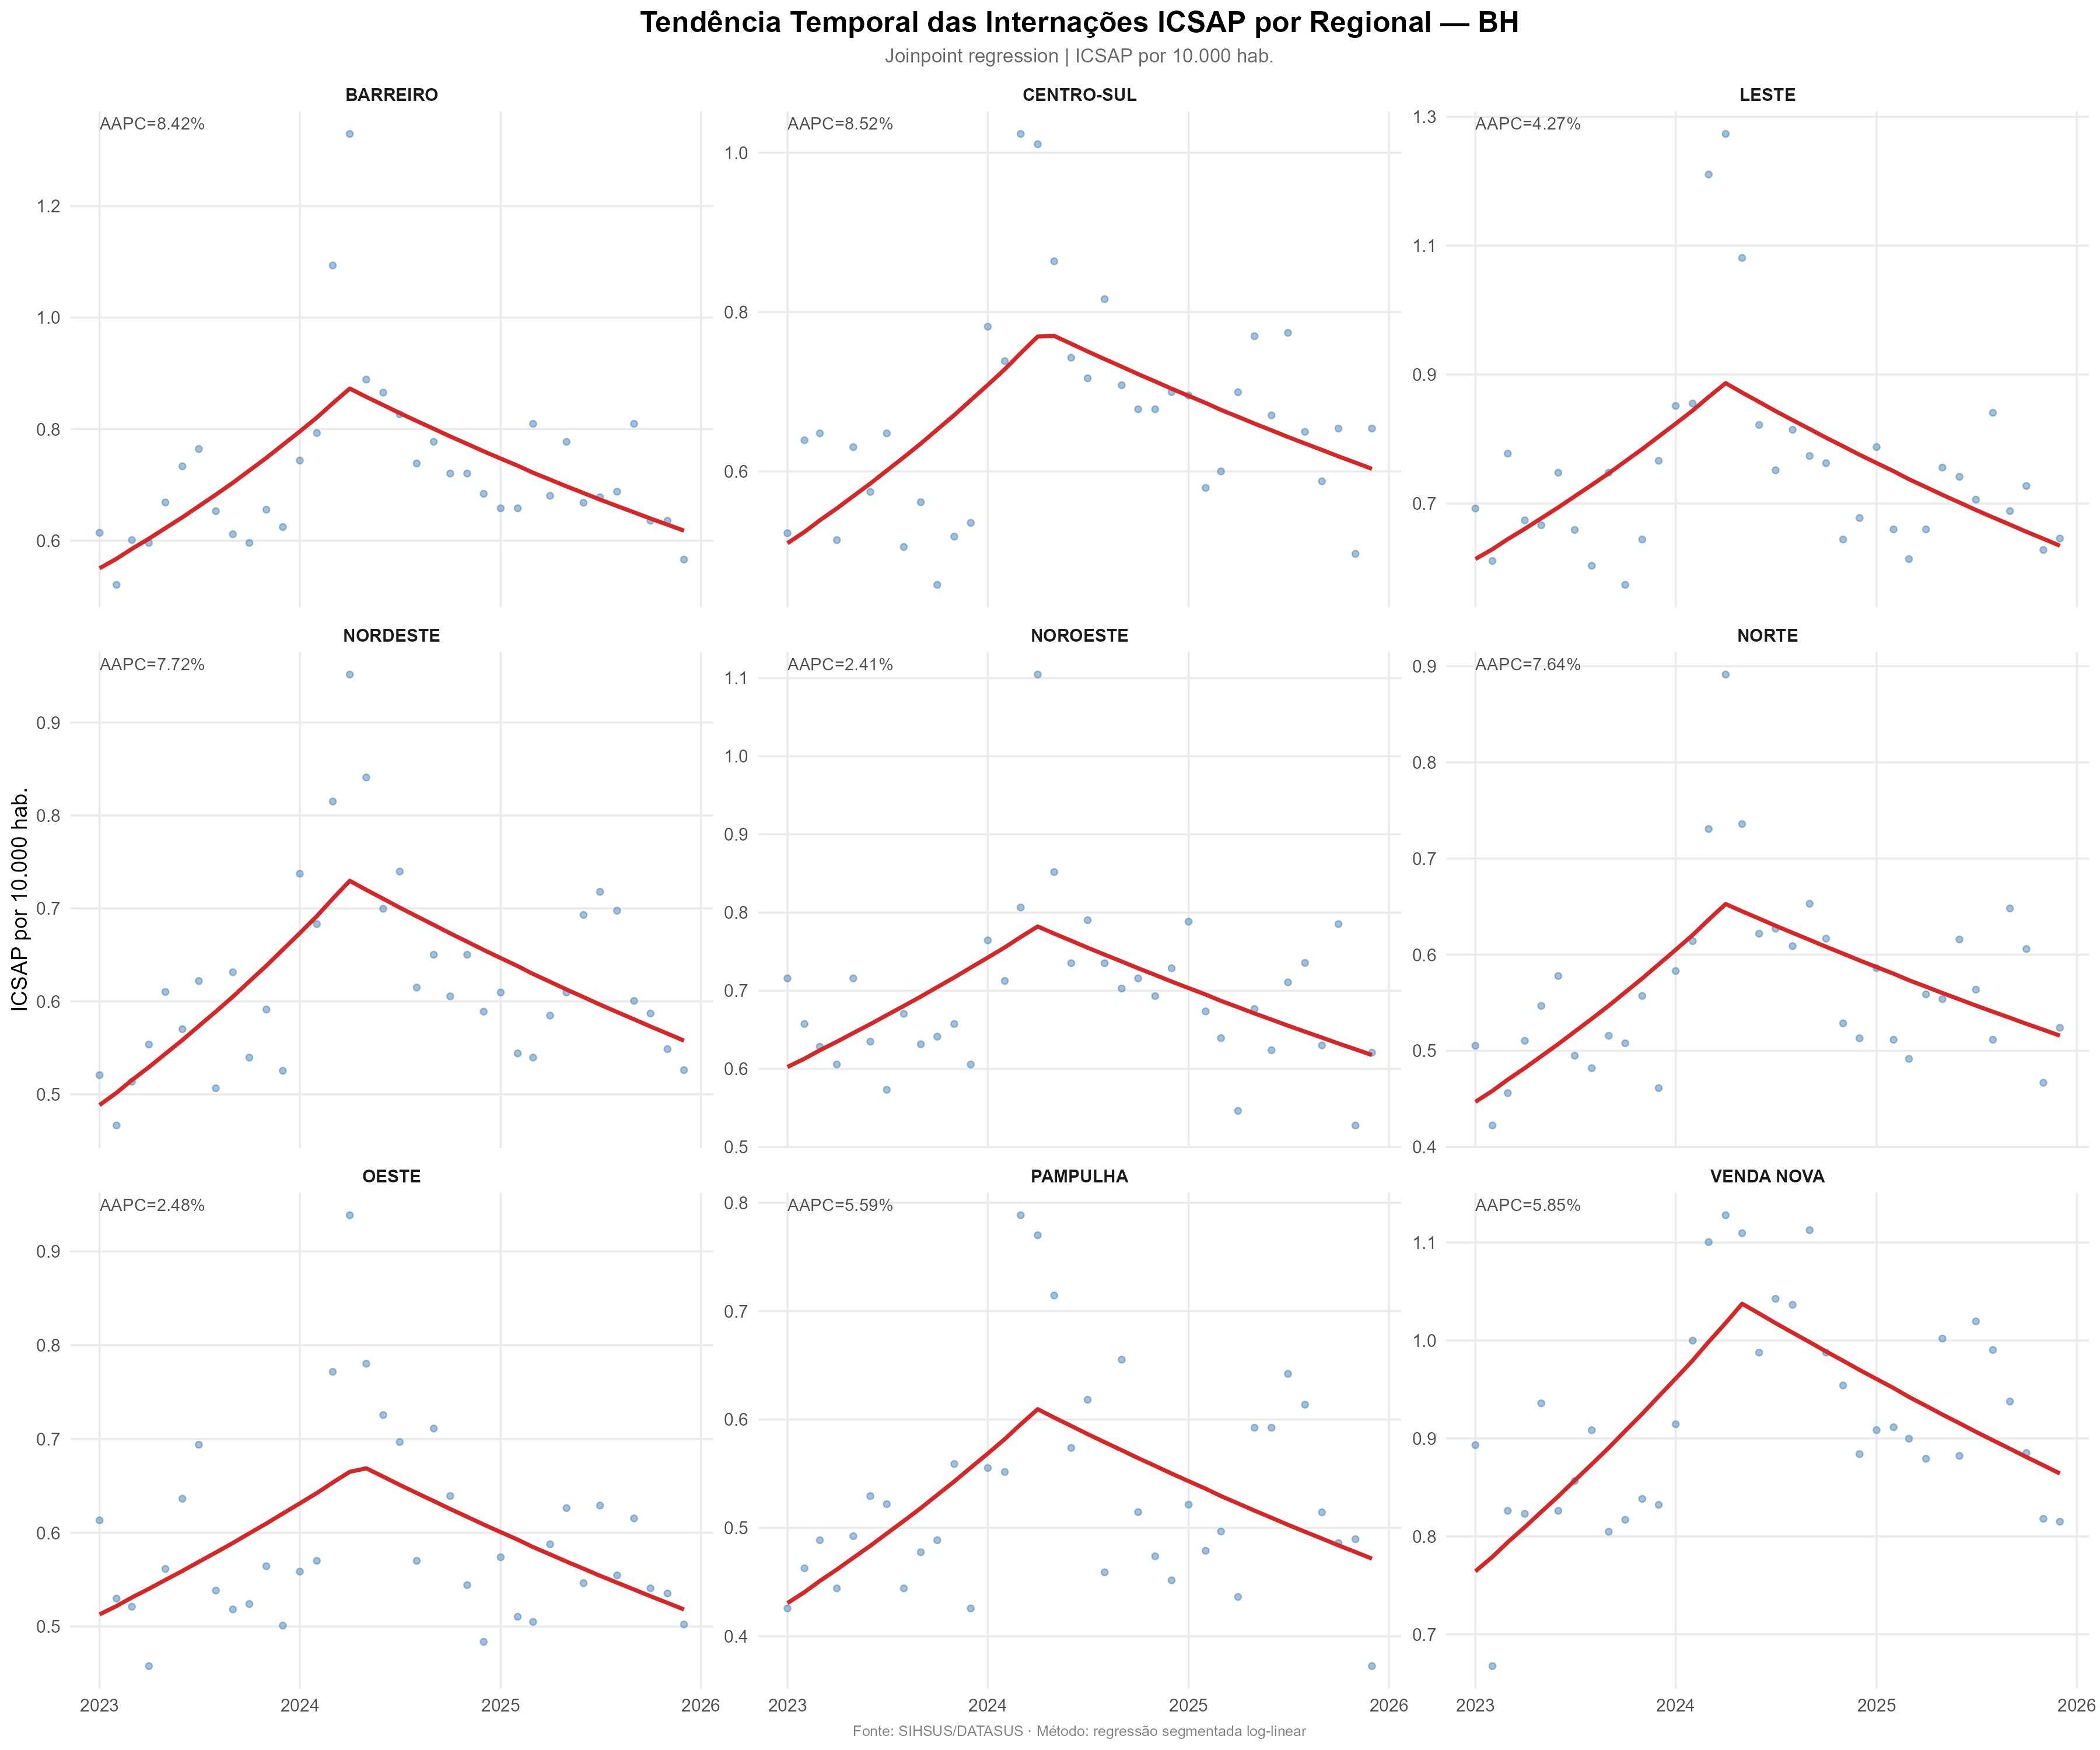
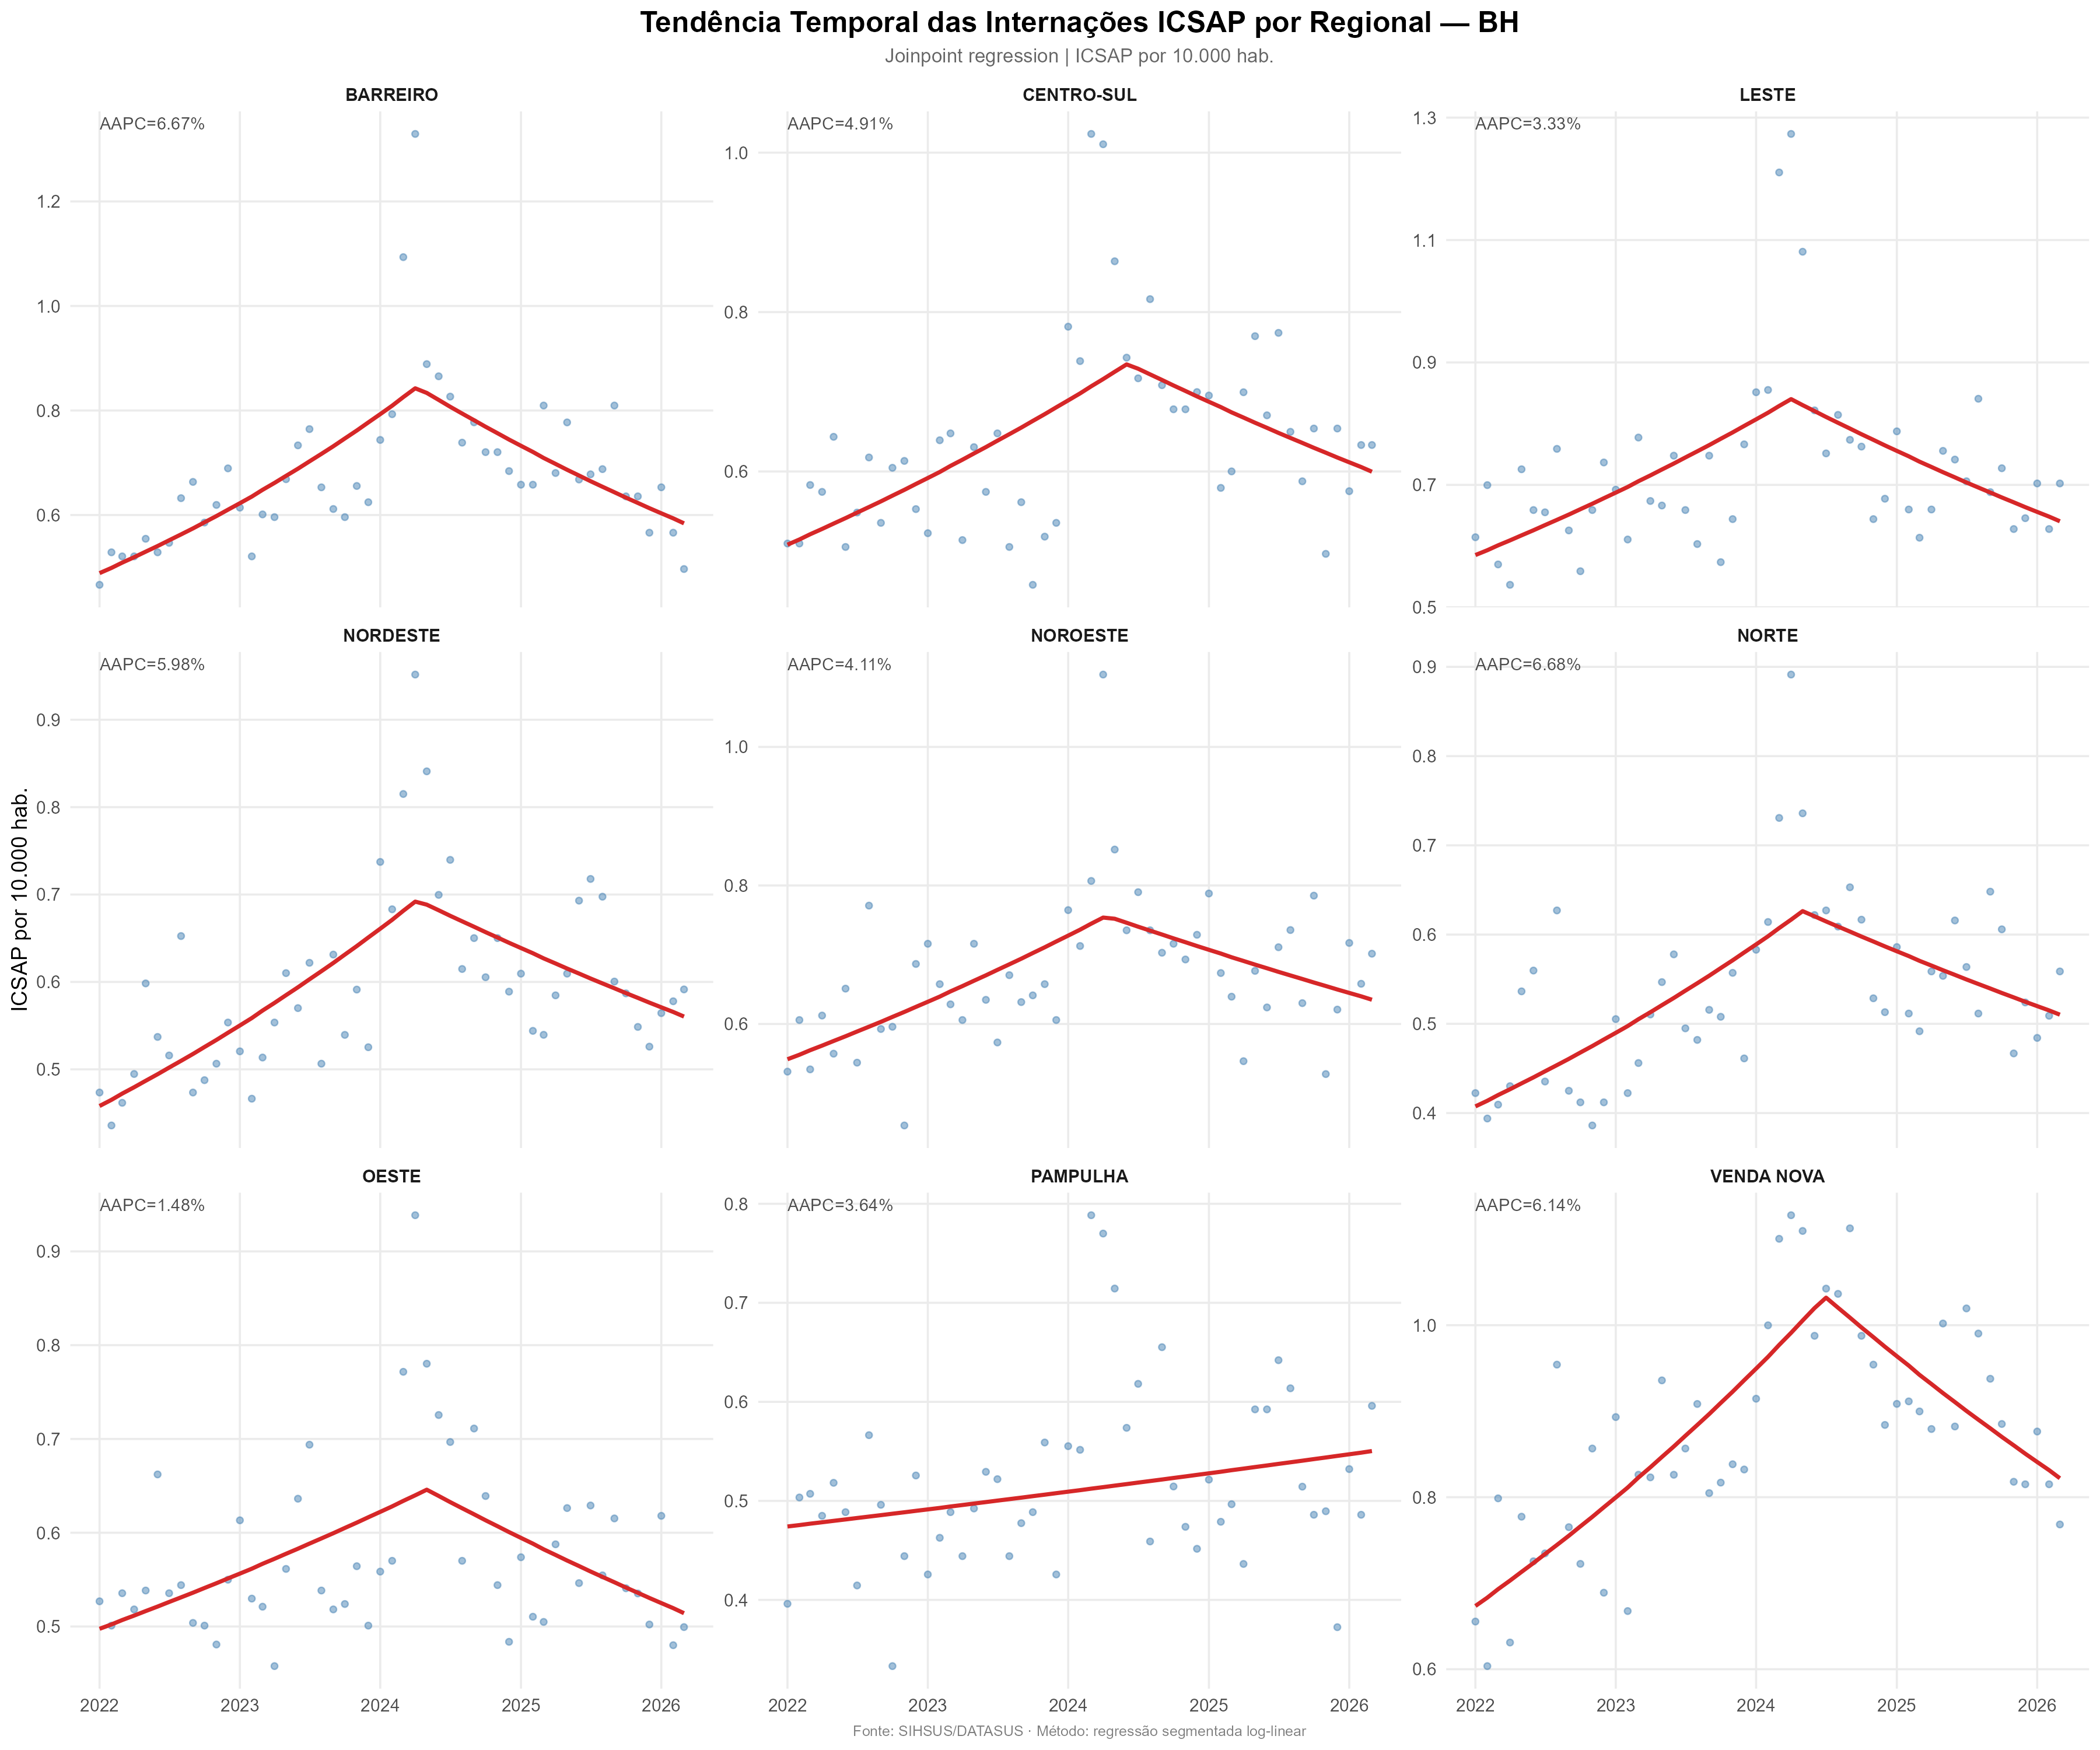
Re-executa joinpoint com serie completa jan/2022-mar/2026 (51 meses) — script 10
BH: 2 joinpoints detectados (serie mais longa revela 3 fases):
  Seg 1 jan/2022-abr/2023: APC = +1.2%/ano (crescimento moderado pos-pandemia)
  Seg 2 abr/2023-abr/2024: APC = +22.9%/ano (aceleracao pre-Portaria)
  Seg 3 abr/2024-mar/2026: APC = -11.2%/ano (queda pos-Portaria 3.493/2024)
  AAPC = +0.7%/ano (vs +1.1% na serie antiga de 39 meses)

Regionais (51 meses): 8/9 com 1 joinpoint bimodal (abr-jul/2024)
  Pampulha: 0 joinpoints, tendencia linear +3.6%/ano
  AAPC: +1.5% (Oeste) a +6.7% (Barreiro/Norte)

Fix: extensao da populacao regional para 2022/2026 via carry-back/forward
  (Censo 2022 e estimativa estatica — bias minimo no denominador)

diff --git a/CLAUDE.md b/CLAUDE.md
@@ -247,10 +247,17 @@ O filtro de CS é dependente do filtro de regional — ao selecionar uma regiona
   - **M4 GEE completo** (exchangeable, 117 CS): n_esf RR=1,032 (p=0,049\*), mes_num p<0,001 (APC=+3,05%/ano); QIC=472
   - **Backward stepwise** (exchangeable, 117 CS): pct_sem_saneamento p=0,255 → removido; n_esf p=0,064 → removido; **modelo final = M1-base** (nenhum preditor contextual sobreviveu p≤0,05 no subsample CNES de 117 CS)
   - **Interpretação pct_sem_saneamento** (M3): RR<1 contraintuitivo — CS em áreas com pior saneamento têm MENOS ICSAP registradas; possível viés de acesso/sub-registro em periferias; a discutir como limitação no manuscrito
-- ✅ **Script 10** — joinpoint regression (APC/AAPC) nível municipal e regional
-  - **BH**: 1 joinpoint em ~abr/2024 (mês 16); seg 1 APC = **+19,2%/ano**; seg 2 APC = **-10,8%/ano**; **AAPC = +1,1%/ano**
-  - **Regionais**: todas as 9 com padrão bimodal similar (joinpoint em ~abr–mai/2024); AAPC de +2,4% (Noroeste/Oeste) a +8,5% (Barreiro/Centro-Sul)
-  - Inversão de tendência em ~abr/2024 consistente em todo o município — possível efeito de intervenção ou mudança na codificação
+- ✅ **Script 10** — joinpoint regression (APC/AAPC) nível municipal e regional — **re-executado com série completa jan/2022–mar/2026 (51 meses)**
+  - **BH**: **2 joinpoints** — mês 16 (~abr/2023) e mês 28 (~abr/2024); 3 segmentos:
+    - Seg 1 (jan/2022–abr/2023): APC = **+1,2%/ano** (crescimento moderado pós-pandemia)
+    - Seg 2 (abr/2023–abr/2024): APC = **+22,9%/ano** (aceleração pré-Portaria)
+    - Seg 3 (abr/2024–mar/2026): APC = **-11,2%/ano** (queda pós-Portaria)
+    - **AAPC = +0,7%/ano** (período jan/2022–mar/2026)
+  - **Regionais** (51 meses cada): **8/9 com padrão bimodal** (1 joinpoint); Pampulha = 0 joinpoints (+3,6%/ano linear)
+    - Joinpoints em mes ~28–31 (abr–jul/2024), consistente com Portaria 3.493/2024
+    - AAPC: +1,5% (Oeste) a +6,7% (Barreiro/Norte)
+  - Extensão da série de 39 para 51 meses revela **fase inicial de crescimento lento (2022)** antes da aceleração de 2023
+  - Nota: denominador regional 2022/2026 usa carry-back/forward da população 2023/2025 (Censo 2022 estático)
 
 - ✅ **Script 13** — IVS-BH incorporado: 153/153 CS com ivs_score (1,00–3,86), ivs_predominante e % por categoria; join via centroide setor → polígono CS (sf_use_s2=FALSE); mais vulnerável: CS Granja de Freitas (LESTE, ivs_score=3,86)
 - ✅ **Script 14** — Alocação proporcional de CEPs limítrofes (buffer 100m)
@@ -362,7 +369,7 @@ Taxa ICSAP **bruta** por 10.000 habitantes, por área de abrangência de CS. **N
 - **DiD-ITS formal** ✅ (script 17) — GLS pooled com 6 controles; todos θ_k NS → efeito nacional; BH APC pós=-5,7%/ano (modelo pooled)
 - **ITS × IVS** ✅ (script 18) — GEE AR-1; ivs_z RR=1,317\*\*\* (CS vulneráveis têm 31,7% mais ICSAP); ivs_z:tempo_pos NS (p=0,179) → efeito homogêneo da Portaria entre CS
 - **Alocação proporcional de CEPs** ✅ (script 14) — 3,31% das internações redistribuídas com buffer 100m; 32,3% CEPs limítrofes; impacto marginal mas methodologicamente relevante
-- **Joinpoint regression** ✅ (script 10) — AAPC BH = +1,1%/ano; padrão bimodal com inflexão em abr/2024 em todas as 9 regionais
+- **Joinpoint regression** ✅ (script 10) — série completa 51 meses (jan/2022–mar/2026); **BH: 2 joinpoints** (abr/2023 e abr/2024), AAPC=+0,7%/ano; 8/9 regionais bimodais (1 JP cada); Pampulha linear; joinpoints ~abr–jul/2024
 - **Padronização direta por idade** ✅ (script 19) — censobr "Pessoas" 2022; pop. padrão BH=2.310.259; rho bruta×pad=0,979; 30,1% dos CS mudam >10 posições no ranking; taxa pad sistematicamente ~7–8% > bruta (CS com pop. mais jovem que o padrão BH)
 - **Internações evitadas e custo evitado** ✅ (script 20) — GLS AR(1) ITS contrafactual; mai/2024–mar/2026; 13.501 internações evitadas (IC95%: 5.132–23.784); custo evitado R$ 29,05 mi (IC95%: 11,04–51,17 mi); Monte Carlo n=1.000 iterações; deflação IPCA 26,4% (jan/2022–mar/2026)
 - **Poisson two-way FE** ✅ (script 21) — fixest 0.14.1; 7.803 obs (153 CS × 51 meses); offset: pop Censo 2022
@@ -395,7 +402,7 @@ Taxa ICSAP **bruta** por 10.000 habitantes, por área de abrangência de CS. **N
 3. ✅ ~~Padronização de taxas~~ — script 07 executado; taxa bruta = proxy adequado (limitação documentada)
 4. ✅ ~~Autocorrelação espacial~~ — concluído (script 08, Moran's I = 0,283)
 5. ✅ ~~GLM-Gama + GEE AR-1~~ — concluído (script 09; painel mensal; φ≈0,96; VIF ≤5; M3 é modelo principal)
-6. ✅ ~~Joinpoint regression~~ — concluído (script 10; AAPC BH=+1,1%/ano; inflexão abr/2024)
+6. ✅ ~~Joinpoint regression~~ — concluído (script 10; re-executado com série completa 51 meses; BH: 2 joinpoints abr/2023+abr/2024, AAPC=+0,7%/ano)
 7. ✅ ~~Re-executar script 03~~ — `icsap_bh_regional.csv` já estava completo (jan/2023–mar/2026)
 8. ✅ ~~Coletar IVS-BH~~ — concluído (script 13; 100% CS; ivs_score 1,00–3,86)
 9. ✅ ~~Alocação proporcional de CEPs limítrofes~~ — concluído (script 14; 3,31% redistribuídas; buffer 100m)
@@ -414,7 +421,7 @@ Taxa ICSAP **bruta** por 10.000 habitantes, por área de abrangência de CS. **N
 22. ✅ ~~Script 20~~ — internações evitadas: 13.501 (IC95%: 5.132–23.784); custo evitado: R$ 29,05 mi (IC95%: 11,04–51,17 mi); GLS AR(1) + Monte Carlo n=1.000
 23. ✅ ~~Script 21~~ — Poisson FE two-way (CS + ano); M1: mes_num NS; M2: ivs IRR=1.321***; M3: n_esf NS within-CS; dose-resposta Q2 IRR=0.921***; dispersão M1=1.23 (adequado)
 24. **Re-executar script 05 para 2022** — estender `variaveis_cs.csv` de 36 para 48 competências (jan/2022–dez/2025) para viabilizar scripts 15/18 com a série completa
-25. **Investigar inflexão de abr/2024** — padrão bimodal em todas as regionais e todos os estratos IVS; checar mudanças de codificação SIHSUS ou portaria federal anterior
+25. **Investigar inflexão de abr/2024** — série completa confirmou inflexão em abr/2024 (2º JP de BH) e em 8/9 regionais; com série mais longa emerge fase inicial 2022 (crescimento lento +1,2%/ano) → aceleração 2023 (+22,9%/ano) → queda pós-Portaria (-11,2%/ano); checar se aceleração de 2023 tem causa identificável (codificação SIHSUS? pressão de demanda reprimida?)
 26. **Redigir manuscrito** para submissão ao *Cadernos de Saúde Pública* (meta: jan/2027)
 
 ---
@@ -435,7 +442,7 @@ Taxa ICSAP **bruta** por 10.000 habitantes, por área de abrangência de CS. **N
   - Seguir checklist STROBE (`docs/checklist_strobe.md`) item a item
   - Vancouver, 4.000 palavras, até 5 tabelas/figuras
   - Figuras centrais: `docs/its_bh.png`, `docs/subgrupos_ivs.png`, `docs/did_its.png`, `docs/its_ivs.png`
-- **Investigar inflexão de abr/2024** — padrão bimodal em todas as regionais E em todos os estratos IVS; checar mudanças de codificação SIHSUS ou portaria federal anterior
+- **Investigar aceleração de 2023** — joinpoint com série completa revela 3 fases: crescimento lento 2022 (+1,2%/ano), aceleração 2023 (+22,9%/ano), queda pós-Portaria (-11,2%/ano); investigar causa da aceleração em 2023 (mudança de codificação? demanda reprimida pós-pandemia?)
 
 ### App e infraestrutura
 - **Melhorar cobertura para ≥90%** — re-executar script 04 após script 03 atualizado; avaliar uso da API Claude para CEPs irrecuperáveis pelas APIs open source